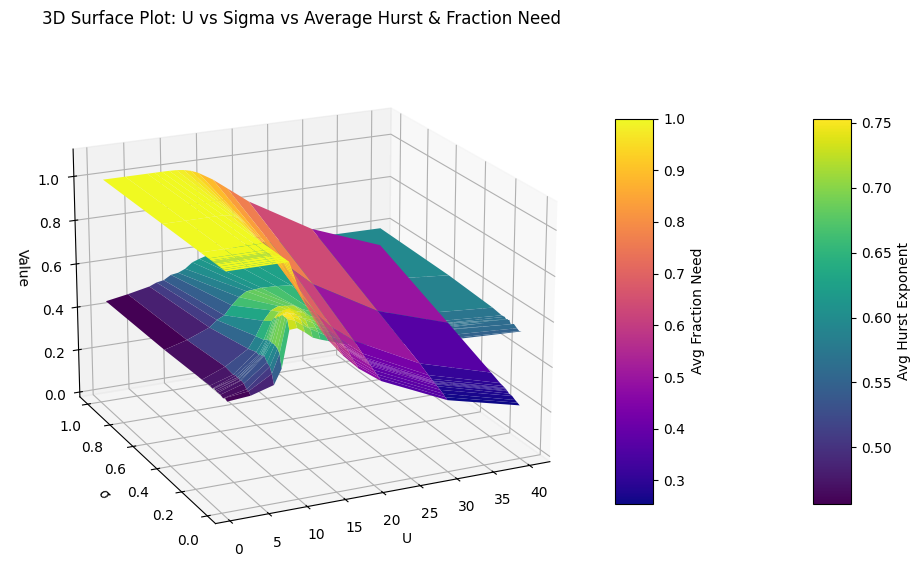
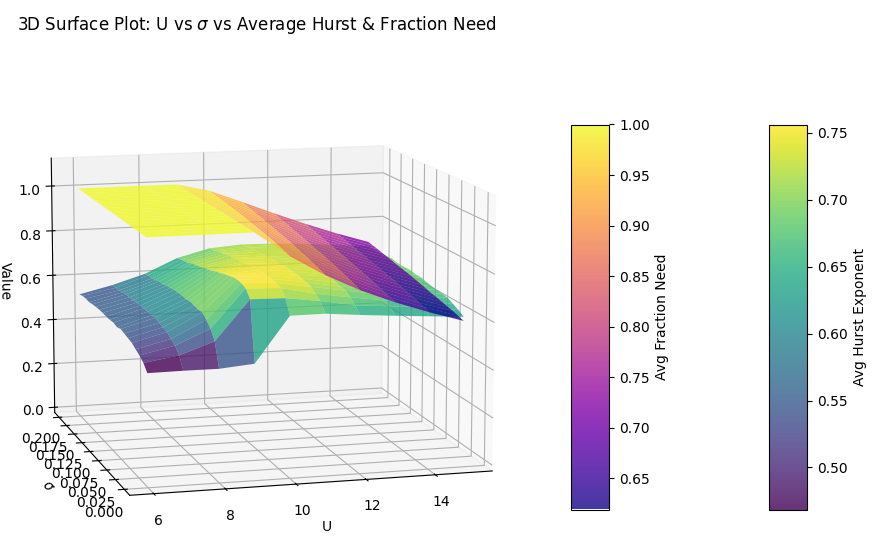
Updated hurst plot

diff --git a/src/Run 3d plot of hurst (30000, 100, 10, U, 30, i, w).py b/src/Run 3d plot of hurst (30000, 100, 10, U, 30, i, w).py
@@ -44,7 +44,7 @@ surf1 = ax.plot_surface(U_grid, sigma_grid, Z_hurst, cmap="viridis", alpha=0.8, 
 ax.set_xlabel("U")
 ax.set_ylabel(r"$\sigma$")
 ax.set_zlabel("Value")
-ax.set_title("3D Surface Plot: U vs Sigma vs Average Hurst & Fraction Need")
+ax.set_title(r"3D Surface Plot: U vs $\sigma$ vs Average Hurst & Fraction Need")
 ax.set_zlim(0,1.1)
 # Add color bars for each surface. Note that having two colorbars in one plot is acceptable,
 # but you might consider adjusting the positions if needed.
